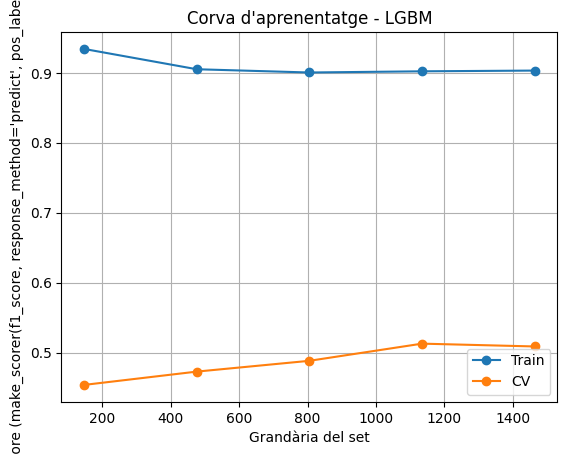
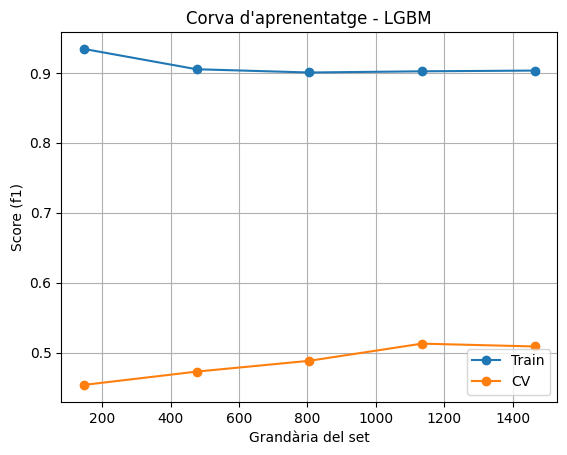
comentaris codi

diff --git a/src/ai_health_assistant/utils/prep_helpers.py b/src/ai_health_assistant/utils/prep_helpers.py
@@ -88,14 +88,13 @@ def feature_engineering(df):
     df_fe["hr_zone_variability"] = df_fe[["minutes_below_default_zone_1", "minutes_in_default_zone_1", 
                                           "minutes_in_default_zone_2", "minutes_in_default_zone_3"]].std(axis=1)
 
-    # Ratios más informativos para fatiga
+    # Ratios més informatius per a la fatiga
     df_fe["activity_intensity"] = df_fe["very_active_minutes"] * 3 + df_fe["moderately_active_minutes"] * 2 + df_fe["lightly_active_minutes"]
     df_fe["recovery_factor"] = df_fe["minutesAsleep"] / (df_fe["activity_intensity"] + 1e-3)
 
-    # Características polinómicas importantes
+    
     df_fe["sleep_eff_rmssd"] = df_fe["sleep_efficiency"] * df_fe["rmssd"]
     
-    # Características cíclicas
     df_fe["active_to_rest_transition"] = df_fe["activity_intensity"] / (df_fe["minutesAsleep"] + df_fe["minutesAwake"] + 1e-3)
 
     df_fe["active_to_total_ratio"] = (df_fe["very_active_minutes"] + df_fe["moderately_active_minutes"] + df_fe["lightly_active_minutes"]) / (24*60)
@@ -144,24 +143,23 @@ def build_preprocessor(df, features):
 
 
 
-
 ########################## FLUXE DEL PREPROCESSAMENT #############################
 def preprocess_data(train_path, test_path, output_dir, features, target):
     """
-    Flux complet de preprocessament per als conjunts d'entrenament i prova:
+    Preprocessa els conjunts d'entrenament i prova per a la predicció:
     1. Llegeix els CSVs d'entrenament i prova
     2. Aplica feature engineering a cada conjunt per separat
-    3. Preprocessa els conjunts evitant data leakage
-    4. Guarda els resultats i retorna els DataFrames processats
+    3. Guarda els resultats i retorna els DataFrames preparatss
     
     Args:
-        train_path: Ruta al fitxer CSV d'entrenament
-        test_path: Ruta al fitxer CSV de prova
-        output_dir: Directori on es guardaran els resultats
-        features: Llista de característiques a utilitzar
+    - train_path: Ruta al fitxer CSV train netejat
+    - test_path: Ruta al fitxer CSV test netejat
+    - output_dir: Directori on es guardaran els resultats
+    - features: Llista de característiques a utilitzar
         
     Returns:
-        Tupla amb (X_train, X_test, y_train, y_test, preprocessor)
+    - df_train: DataFrame preparat pel preprocessament (df_engineered_train.csv)
+    - df_test: DataFrame preparat pel preprocessament (df_engineered_test.csv)
     """
     
     # Llegim les dades

diff --git a/src/ai_health_assistant/utils/train_helpers.py b/src/ai_health_assistant/utils/train_helpers.py
@@ -26,14 +26,14 @@ def train_models(X_train, y_train, X_test, y_test, pipeline, param_grid, scoring
     - y_train: target del train
     - X_test: features del test
     - y_test: target del test
-    - pipeline: pipeline almenys amb el classifier
+    - pipeline: pipeline almenys amb el preprocessador i el classifier
     - param_grid: parametres per fer el gridsearch (si es un diccionari amb diversos classifiers es pot aplicar com: param_grid[model_name])
     - scoring: per defecte F1 para clase 1.
     - cv: validació creuada, per defecte StratifiedKFold amb 5 splits.
     - n_iter: nombre de iteracions, per defecte 100.
-    - search_type: 'random' (per defecte) o 'grid' per fer un GridSearchCV
+    - search_type: 'random' (per defecte) o es pot fer 'grid' per fer un GridSearchCV
     
-    La funció retorna:\n
+    Return:\n
     - best_est, y_train_pred, train_report, y_test_pred, test_report, best_params, best_score
     '''
     if scoring == 'f1':
@@ -155,29 +155,32 @@ def append_results (list_results, model, train_report, test_report, best_params,
     return results_df
 
 
-def plot_learning_curve(model_name, best_est, X, y, save = 'no', score = 'f1'):
+def plot_learning_curve(model_name, best_est, X_train, y_train, save = 'no', score = 'f1'):
     '''
-    Genera una corva d'aprenentatge per veure com el model apren.\n
+    Genera una corva d'aprenentatge per veure com el model apren sobre el train.\n
     
     Arguments:
     - model_name: nom del model
     - best_est: millor estimador trobat
     - X: features
     - y: target
-    - save: per defecte 'no' (mostra la gràfica) si es 'yes' guarda la gràfica (no la mostra)
+    - save: per defecte 'no' (mostra la gràfica per notebooks) si es 'yes' guarda la gràfica (no la mostra)
     - score: per defecte 'f1', sino posar quin score es vol utilitzar
     '''
     if score == 'f1':
-        score = make_scorer(f1_score, pos_label=1)
+        scorer = make_scorer(f1_score, pos_label=1)
+    else:
+        scorer = score
 
     train_sizes, train_scores, val_scores = learning_curve(
-        best_est, X, y,
+        best_est, X_train, y_train,
         cv=5,
-        scoring=score,
+        scoring=scorer,
         train_sizes=np.linspace(0.1, 1.0, 5),
         n_jobs=-1,
         shuffle=True, 
         random_state=42,
+        verbose=0
     )
     train_mean = train_scores.mean(axis=1)
     val_mean   = val_scores.mean(axis=1)

diff --git a/src/ai_health_assistant/03_assistant/ai-health-prediction.py b/src/ai_health_assistant/03_assistant/ai-health-prediction.py
@@ -2,27 +2,23 @@ import pandas as pd
 import joblib
 
 # Carreguem el dataset ja pre‐processat
-df = pd.read_csv('data/df_preprocessed.csv')
+df = pd.read_csv('data/df_engineered_test.csv')
 
-# 2. Extreu una fila de prova (seed per reproductibilitat)
-prova = df.sample(n=1)
+# Extreu una fila de prova
+prova = df.sample(n=1, random_state=40)
 idx = prova.index[0]
 print(f"Mostrant la fila amb índex {idx}:\n", prova, "\n")
 
-# 3. Separa característiques (X) i elimna les columnes de target
-X_test = prova.drop(columns=['TIRED', 'RESTED/RELAXED'])
+# Separa característiques (X) i elimna les columnes de target
+X_test = prova.drop(columns=['TIRED'])
 
-# 4. Carrega els models serialitzats
-model_tense  = joblib.load('models/best_TIRED')
-model_rested = joblib.load('models/best_RESTED_RELAXED.joblib')
+# Carrega els models serialitzats
+model = joblib.load('models/LGBM_TIRED.joblib')
 
-# 5. Predicció per a cada etiqueta
-pred_tense      = model_tense.predict(X_test)[0]
-prob_tense_pos  = model_tense.predict_proba(X_test)[:,1][0]
+# Predicció per a cada etiqueta
+pred      = model.predict(X_test)[0]
+prob_pos  = model.predict_proba(X_test)[:,1][0]
 
-pred_rested     = model_rested.predict(X_test)[0]
-prob_rested_pos = model_rested.predict_proba(X_test)[:,1][0]
 
-# 6. Resultats
-print(f"TENSE/ANXIOUS → pred: {pred_tense}, prob(1): {prob_tense_pos:.3f}")
-print(f"RESTED/RELAXED → pred: {pred_rested}, prob(1): {prob_rested_pos:.3f}")
+# Resultats
+print(f"TIRED → pred: {pred}, prob(1): {prob_pos:.3f}")

diff --git a/src/ai_health_assistant/01_preprocessing/clean_data.py b/src/ai_health_assistant/01_preprocessing/clean_data.py
@@ -4,7 +4,8 @@ import pandas as pd
 ########################## Neteja de les dades ################################
 '''
 Justificació de la neteja de dades al notebook: 01_LifeSnaps_EDA.ipynb
-L'objectiu es tenir les dades netes i imputades de forma basica per fer un bon preprocessament. Sense errors de dades ni outliers que puguin perjudicar el model.
+L'objectiu es tenir les dades netes i imputades de forma basica per fer un bon preprocessament. 
+Sense errors de dades ni outliers que puguin perjudicar el model.
 
 Seleccionem les columnes disponibles del dispositiu fitbit
 Corregim la variable del bmi i afegim categories de bmi_tipo
